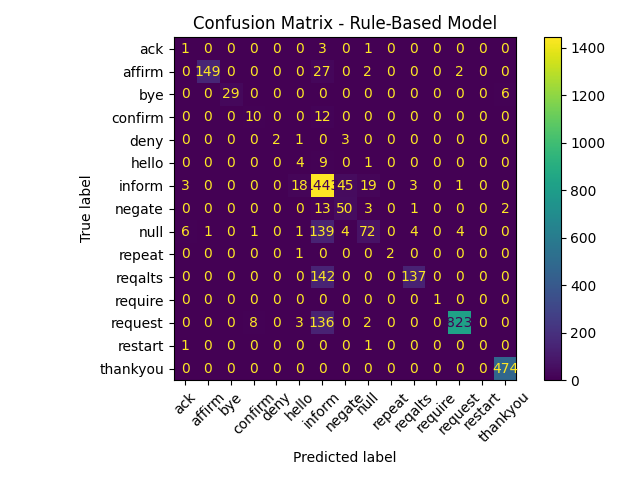
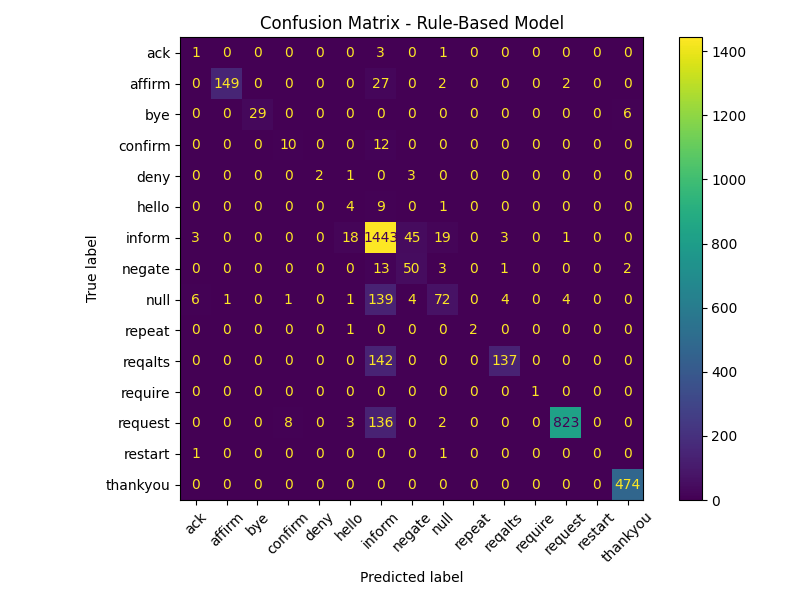
fixed confusion matrix plot size

diff --git a/main.py b/main.py
@@ -176,8 +176,10 @@ def save_confusion_matrix(y_test, y_pred, model_name):
 
     cm = confusion_matrix(y_test, y_pred)
     disp = ConfusionMatrixDisplay(confusion_matrix=cm, display_labels=labels)
-    # disp.plot()
-    disp.plot(xticks_rotation=45)  # Rotate x-axis labels by 45 degrees
+
+    # Create figure and axes
+    fig, ax = plt.subplots(figsize=(8, 6))  # Adjust size as needed
+    disp.plot(ax=ax, xticks_rotation=45)  # Rotate x-axis labels by 45 degrees
 
     # Add title with the model name
     plt.title(f"Confusion Matrix - {model_name}")
